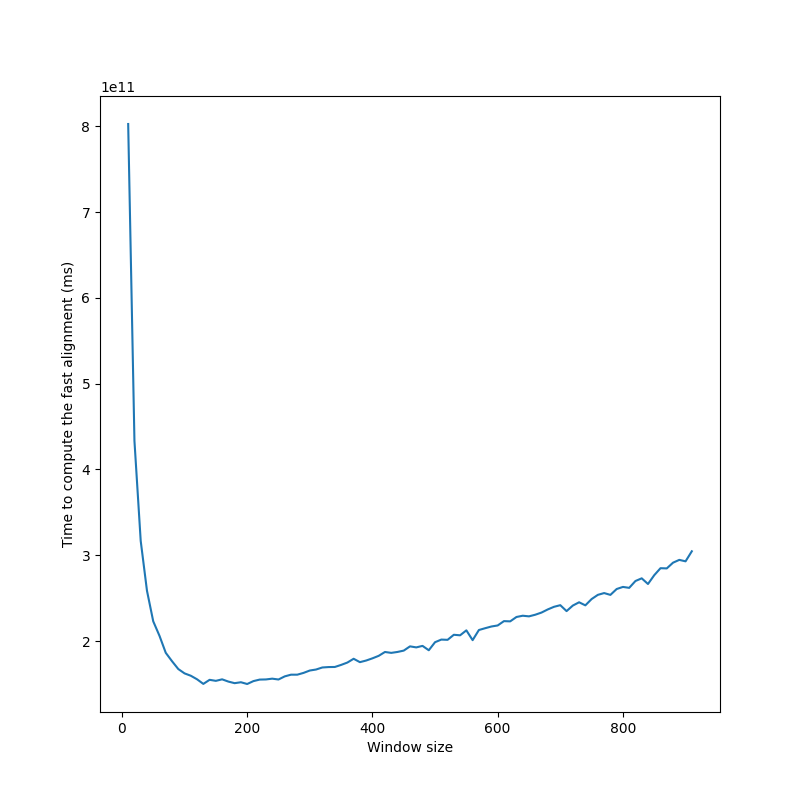
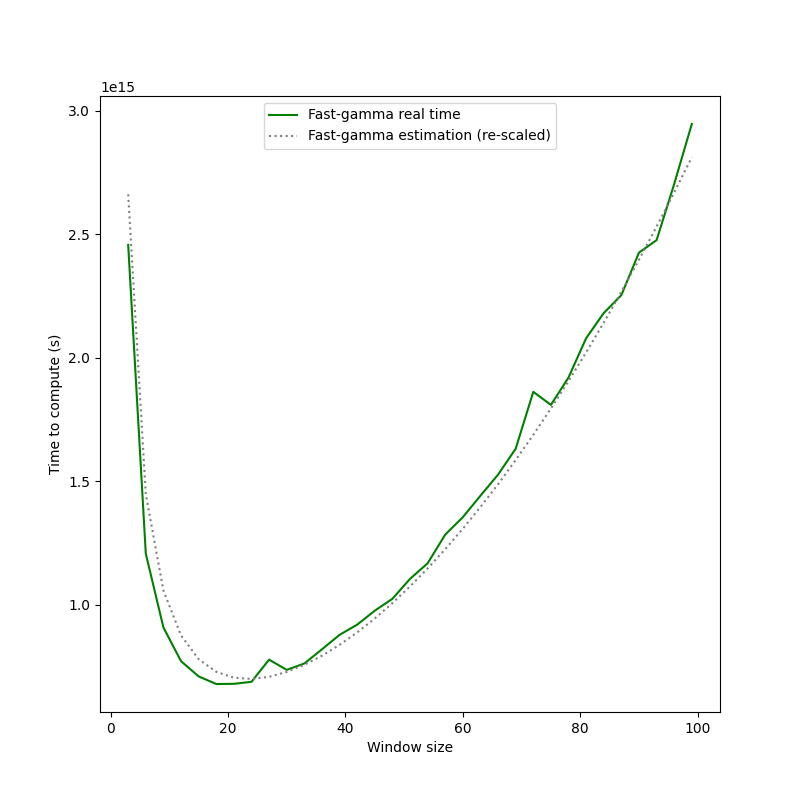
finalized and documented fast-gamma, with big optimizations, tests and bug fixes. Removed faster-gamma

diff --git a/pygamma_agreement/continuum.py b/pygamma_agreement/continuum.py
@@ -130,7 +130,8 @@ class Continuum:
         self.bound_inf = 0.0
         self.bound_sup = 0.0
 
-        self.best_window_size = 20  # Default best window size. Re-measure it with self.measure_best_window_size
+        self.best_window_size = np.inf
+        # Default best window size. Re-measure it with self.measure_best_window_size
 
     @classmethod
     def from_csv(cls,
@@ -546,6 +547,7 @@ class Continuum:
         """
         sizes = {annotator: len(units) for annotator, units in self._annotations.items()}
         indexes = {annotator: 0 for annotator in self._annotations.keys()}
+        annotations = {annotator: list(units) for annotator, units in self._annotations.items()}
 
         # Take the n first units of an annotator and all those in the same timestamp from the others.
         end_unit = None
@@ -555,7 +557,7 @@ class Continuum:
             if indexes[annotator] == sizes[annotator]:
                 continue
             for index in range(indexes[annotator], sizes[annotator]):
-                unit = self._annotations[annotator][index]
+                unit = annotations[annotator][index]
                 if end_unit is not None and unit.segment.start >= end_unit.segment.end:
                     indexes[annotator] = index
                     break
@@ -571,8 +573,8 @@ class Continuum:
             indexes_end = {}
             for annotator in indexes_start.keys():
                 for index in range(indexes_start[annotator], sizes[annotator]):
-                    unit = self._annotations[annotator][index]
-                    if any(dissimilarity.d(unit, self._annotations[other_annot][indexes[other_annot]])
+                    unit = annotations[annotator][index]
+                    if any(dissimilarity.d(unit, annotations[other_annot][indexes[other_annot]])
                            <= dissimilarity.delta_empty * self.num_annotators for other_annot in indexes_start.keys()
                            if other_annot != annotator and indexes[other_annot] != sizes[other_annot]):
                         window.add(annotator, unit.segment, unit.annotation)
@@ -634,44 +636,36 @@ class Continuum:
                          disorder=np.sum(disorders) / self.avg_num_annotations_per_annotator)
 
     def measure_best_window_size(self, dissimilarity: AbstractDissimilarity):
-        # Precompilation to not mess up times, and check for no additionnal time (only case where true gamma is faster)
-        window = self.get_first_window(dissimilarity, 1)
-        if window.max_num_annotations_per_annotator <= 2:
-            self.best_window_size = np.inf
-            return
-        best_align = window.get_best_alignment(dissimilarity)
-        times = [np.inf]
-        window_sizes = [0]
-        min_time = 0
-        step = max(1, int(self.avg_num_annotations_per_annotator * 0.01))
-        for window_size in range(step, step*21, step):
-            window_sizes.append(window_size)
-            window = self.get_first_window(dissimilarity, window_size)
-            ttc = np.inf
-            for _ in range(4):
-                bp = time.process_time_ns()
-                best_align = window.get_best_alignment(dissimilarity)
-                ttc = min((time.process_time_ns() - bp) / window_size, ttc)
-            times.append(ttc)
-            if times[-1] < times[min_time]:
-                min_time = len(times) - 1
-            elif times[-1] >= 1.2 * times[min_time]:
-                self.best_window_size = window_sizes[min_time]
-                return
+        """
+        Sets the best window size for computing the fast-gamma of this continuum, by using the
+        sampling the computing complexity function.
+        """
+        smallest_window = self.get_first_window(dissimilarity, 1)
+        smallest_window.get_best_alignment(dissimilarity)
 
+        s = smallest_window.max_num_annotations_per_annotator - 1
+        n = int(self.avg_num_annotations_per_annotator)
+        p = int(self.num_annotators)
 
+        window_sizes = np.arange(1, max(2, self.max_num_annotations_per_annotator))
 
-    def get_faster_alignment(self, dissimilarity: AbstractDissimilarity, precision: int = 30) -> 'Alignment':
-        from .alignment import Alignment
-        faster_alignment = Alignment([], self)
-        disorders = []
-        for window in self.iter_windows(precision):
-            window_best_alignment = window.get_best_alignment(dissimilarity)
-            faster_alignment.merge(window_best_alignment)
-            disorders.append(window_best_alignment.disorder * window.avg_num_annotations_per_annotator)
-        faster_alignment._disorder = np.sum(disorders) / self.avg_num_annotations_per_annotator
-        faster_alignment.check(self)
-        return faster_alignment
+        def f(w):
+            return ((n - w) * p / 2 + 2 * p + (w + s * p) * p  # getting first window
+                    + (n - w) * p / 2 + 1 / 20 * (w + s) ** p  # getting best alignment ( times numba factor)
+                    + (w + s) * p * np.log2((w + s) * p) + w * p  # getting the w leftmost alignments & adding them
+                    ) * (n / w)
+
+        # adding the log factorial corresponds to the emptying-the-continuum-unit-by-unit time.
+        logfactorials = np.log2(window_sizes)
+        for i in range(1, len(logfactorials)):
+            logfactorials[i] += logfactorials[i - 1]
+
+        times = f(window_sizes) + p * logfactorials
+
+        self.best_window_size = window_sizes[np.argmin(times)]
+
+        if self.best_window_size >= self.avg_num_annotations_per_annotator / 2:
+            logging.warning("Fast-gamma disadvantageous, using normal gamma.")
 
     def get_best_alignment(self, dissimilarity: AbstractDissimilarity) -> 'Alignment':
         """
@@ -769,7 +763,7 @@ class Continuum:
                       precision_level: Optional[Union[float, PrecisionLevel]] = None,
                       ground_truth_annotators: Optional[SortedSet] = None,
                       sampler: 'AbstractContinuumSampler' = None,
-                      fast: Literal['normal', 'fast', 'faster'] = 'normal') -> 'GammaResults':
+                      fast: bool = False) -> 'GammaResults':
         """
 
         Parameters
@@ -803,11 +797,9 @@ class Continuum:
             sampler = StatisticalContinuumSampler()
         sampler.init_sampling(self, ground_truth_annotators)
 
-        if fast == 'fast':
+        if fast:
             job = _compute_fast_alignment_job
             self.measure_best_window_size(dissimilarity)
-        elif fast == 'faster':
-            job = _compute_faster_alignment_job
         else:
             job = _compute_best_alignment_job
         # Multiprocessed computation of sample disorder
@@ -1005,7 +997,7 @@ def _compute_fast_alignment_job(dissimilarity: AbstractDissimilarity,
     Function used to launch a multiprocessed job for calculating an approximation of
     the best aligment of a continuum, using the given dissimilarity.
     """
-    if continuum.best_window_size == np.inf:
+    if continuum.best_window_size >= continuum.avg_num_annotations_per_annotator / 2:
         return continuum.get_best_alignment(dissimilarity)
     return continuum.get_fast_alignment(dissimilarity, continuum.best_window_size)
 

diff --git a/tests/test_gammas.py b/tests/test_gammas.py
@@ -20,7 +20,7 @@ def test_gamma_2by1000():
                                               alpha=3,
                                               beta=1)
 
-    gamma_results = continuum.compute_gamma(dissim, fast=False)
+    gamma_results = continuum.compute_gamma(dissim)
     assert len(gamma_results.best_alignment.unitary_alignments) == 1085
 
     # Gamma:
@@ -42,7 +42,7 @@ def test_gamma_3by100():
                                               alpha=3,
                                               beta=1)
 
-    gamma_results = continuum.compute_gamma(dissim, fast=False)
+    gamma_results = continuum.compute_gamma(dissim)
     assert len(gamma_results.best_alignment.unitary_alignments) == 127
     # Gamma
     assert 0.79 <= gamma_results.gamma <= 0.81
@@ -63,7 +63,7 @@ def test_gamma_alexpaulsuzan():
                                               alpha=3,
                                               beta=1)
     sampler = ShuffleContinuumSampler()
-    gamma_results = continuum.compute_gamma(dissim, sampler=sampler, precision_level=0.05, fast=False)
+    gamma_results = continuum.compute_gamma(dissim, sampler=sampler, precision_level=0.05)
     assert len(gamma_results.best_alignment.unitary_alignments) == 6
 
     assert gamma_results.best_alignment.disorder == pytest.approx(0.96, 0.01)
@@ -86,7 +86,7 @@ def test_gamma_alexpaulsuzan_otherdissims():
     continuum = Continuum.from_csv(Path("tests/data/AlexPaulSuzan.csv"))
     dissimilarity = PositionalDissimilarity()
 
-    gamma_results = continuum.compute_gamma(dissimilarity=dissimilarity, precision_level=0.05, fast=False)
+    gamma_results = continuum.compute_gamma(dissimilarity=dissimilarity, precision_level=0.05)
 
     gamma = gamma_results.gamma
     try:
@@ -98,7 +98,7 @@ def test_gamma_alexpaulsuzan_otherdissims():
     dissimilarity = CategoricalDissimilarity(categories=continuum.categories,
                                              cat_dissimilarity_matrix=cat_ord)
 
-    gamma_results = continuum.compute_gamma(dissimilarity=dissimilarity, precision_level=0.05, fast=False)
+    gamma_results = continuum.compute_gamma(dissimilarity=dissimilarity, precision_level=0.05)
 
     gamma = gamma_results.gamma
     try:

diff --git a/docs/source/performance.rst b/docs/source/performance.rst
@@ -43,7 +43,7 @@ with continua generated specifically to mess with the algorithm.
 
 It uses the fact that alignments are made using locality of annotations, so it is only precise with a dissimilarity that
 mainly takes positionning into account. Results are still good with a combined categorical dissimilarity where
-math:`\alpha > 2 \times \beta`.
+math:`\alpha = 2 \times \beta`.
 
 Here are the performance comparisons between the two algorithms :
 
@@ -68,24 +68,21 @@ its computational complexity, with :math:`w` the number of annotation per annota
 
 .. math::
 
-    C(N, n, p) = N \times \frac{n}{w} \times ((w + s)^p + D(n, p, w, s))
+    C(N, n, p) = N \times (\frac{n}{w} \times (f \times (w + s)^p + D(n, p, w, s))
 
-With :math:`D` an unknown additionnal complexity.
+With :math:`D` an additional complexity per window that we will not detail here, and
+:math:`f` the "numba factor", i.e the gain of speed obtained by using compiled numba functions, that we have
+estimated.
 
 This becomes a lot more interesting when the amount of annotations grows. One important thing to notice is that
-this complexity can be minimized with the right window size. However, with the exact formula being difficult to
-find, we have not found a rapid way to calcultate the optimal window.
-
-Instead, the method we chose is to estimate it by measuring the CPU time to compute the best alignment of the first
-window for different window sizes (divided by the size of the window) and stop before the time goes up (measures
-have show that there is only one global minimum for this computational complexity).
+this complexity can be minimized with the right window size.
 
 .. figure:: images/windowestimation.png
   :scale: 70%
   :align: right
 
-  **This is the look of the time to compute fast-gamma to the size of the windows**. Fast-gamma determines
-  the optimum (using only the first window for each size) before starting the whole computation.
+  **This is the look of the time to compute fast-gamma to the size of the windows**. Thus, before starting to compute
+  fast-gamma, the algorithm determines the optimal window size by sampling the complexity function.
 
 
 
@@ -112,6 +109,9 @@ Here's an explanation of what the overlapping value means on average :
 - **0**: there is no gap between two consecutive annotations from the same annotator.
 - **1**: the gap between two consecutive annotations from the same annotator is equal to their
   length.
+
+For real input though, it is established from experience that fast-gamma is more than reliable. Thus, it is advised to
+prioritize it since the gain in computing time is signficant.
 
 
 Memory usage
